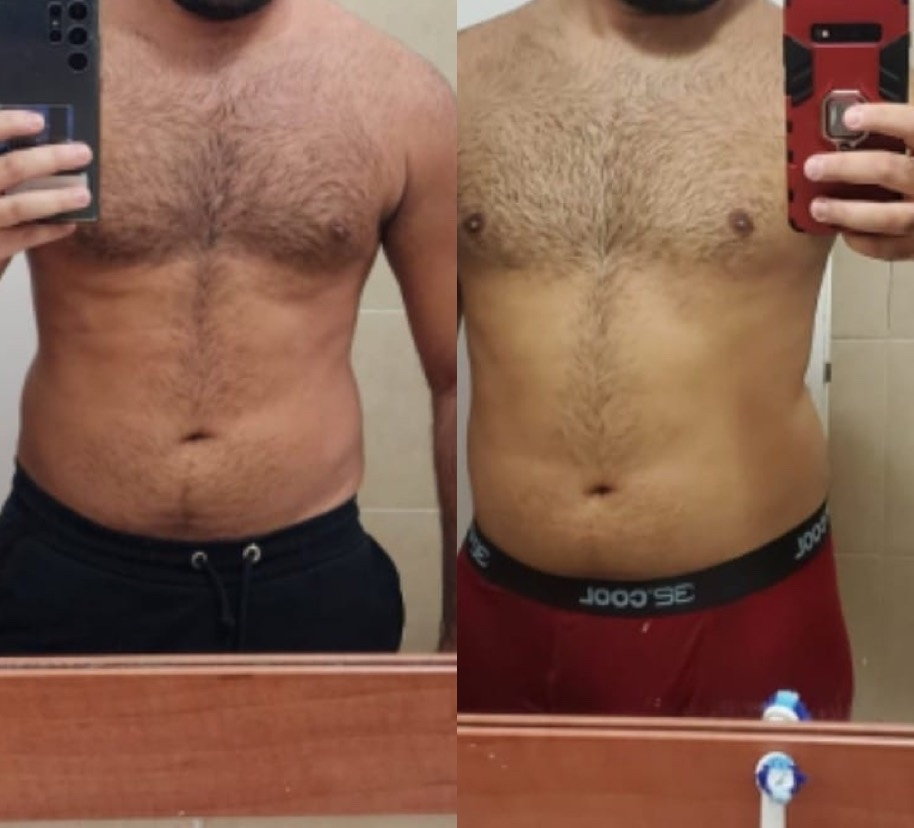
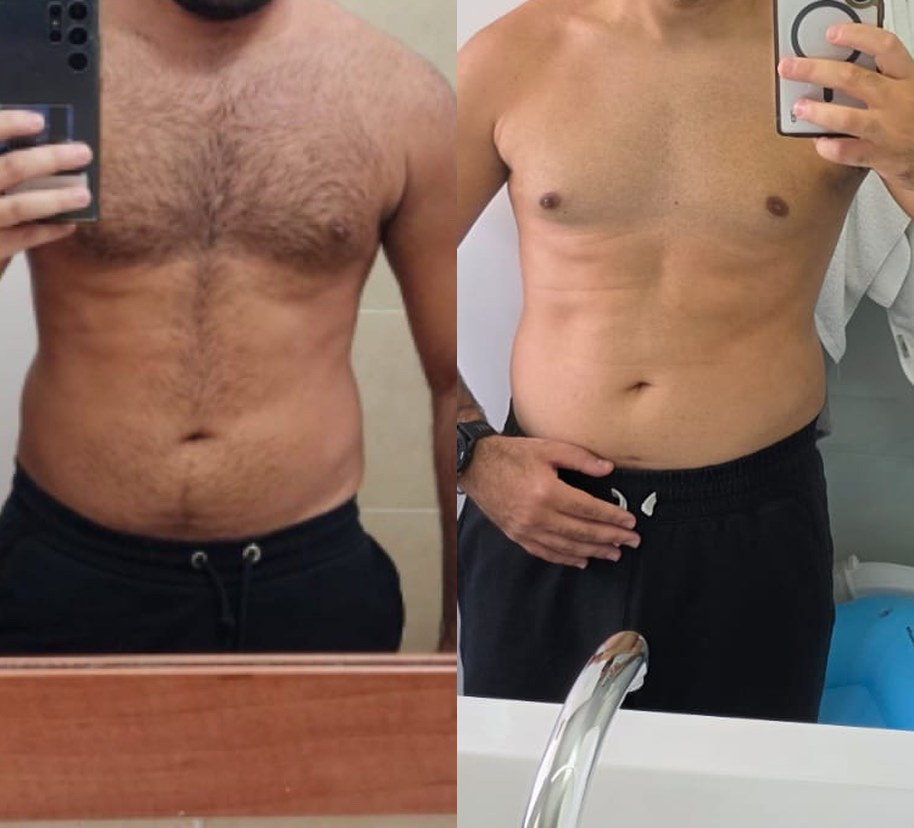
Replace Maor's after photo, update his weight, slow the panel's focus
The new shot is cropped below the chin and framed on the torso, so no face
appears, and it matches the other half's scale and its counter edge. His
figures move to 86 to 76, and the headline delta follows to -10.

The branches panel runs on a longer track of its own: it starts a quarter of
a screen below the fold and comes fully sharp as its top reaches the middle
of the screen, about twice the previous distance, rising further on the way.

diff --git a/index.html b/index.html
@@ -444,9 +444,9 @@ img.cover{width:100%;height:100%;object-fit:cover;}
   </article>
   <article class="wall">
     <div class="q">
-      <p class="delta"><span dir="ltr">-7</span> קילו</p>
+      <p class="delta"><span dir="ltr">-10</span> קילו</p>
       <p class="quote">ציטוט זמני — יוחלף בדברי המתאמן.</p>
-      <p class="kg"><span dir="ltr">86</span> ← <span dir="ltr">79</span> ק״ג</p>
+      <p class="kg"><span dir="ltr">86</span> ← <span dir="ltr">76</span> ק״ג</p>
     </div>
     <div class="ba"><img src="assets/ba/mao.jpg" alt=""><span class="split"></span></div>
   </article>

diff --git a/m.html b/m.html
@@ -6,7 +6,7 @@
 <meta http-equiv="Cache-Control" content="no-cache, must-revalidate">
 <meta name="format-detection" content="telephone=no">
 <title>HITBOX — תכנית 90 הימים לפריקת מתחים, חיטוב והגנה עצמית</title>
-<link rel="stylesheet" href="m.css?v=202608161751">
+<link rel="stylesheet" href="m.css?v=202608161756">
 </head>
 <body>
 
@@ -176,6 +176,6 @@
 
 <div id="vm"><button id="vmx" aria-label="סגירה">×</button><div class="frame"></div></div>
 
-<script src="m.js?v=202608161751"></script>
+<script src="m.js?v=202608161756"></script>
 </body>
 </html>
